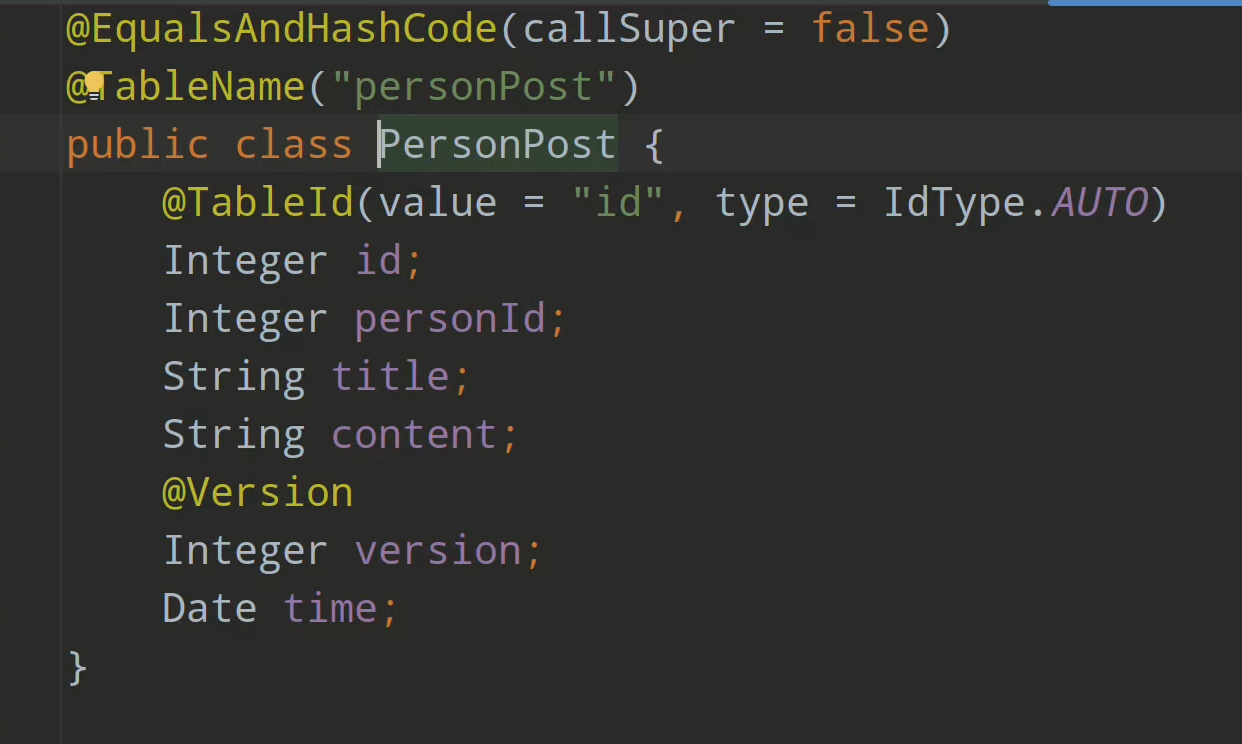
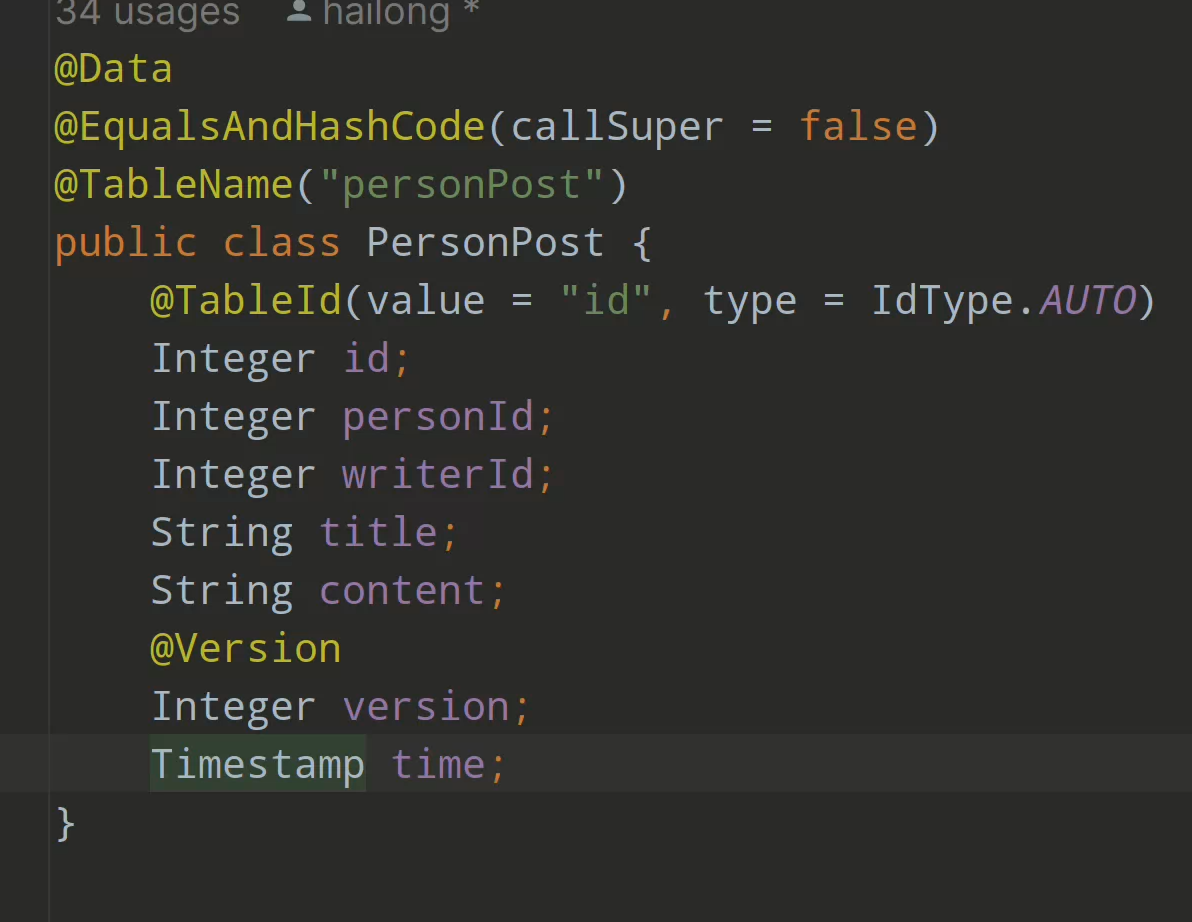
修改了一些bug

diff --git a/src/main/java/com/OOAD/controller/TeamPostController.java b/src/main/java/com/OOAD/controller/TeamPostController.java
@@ -1,5 +1,6 @@
 package com.OOAD.controller;
 
+import com.OOAD.domain.PersonPost;
 import com.OOAD.domain.TeamPost;
 import com.OOAD.service.TeamPostService;
 import com.OOAD.service.impl.TeamPostServiceImpl;
@@ -13,6 +14,21 @@ import java.util.List;
 public class TeamPostController {
     @Autowired
     TeamPostServiceImpl service;
+    @GetMapping("/writer/{id}")
+    public Result deleteByWriterID(@PathVariable int id) {
+        List<TeamPost> teamPost = service.getByWriterId(id);
+        Result result = new Result();
+        if (teamPost != null) {
+            result.setMsg("查询成功");
+            result.setData(teamPost);
+            result.setCode(Code.GET_OK);
+        } else {
+            result.setMsg("查询失败，帖子不存在");
+            result.setData("Err");
+            result.setCode(Code.GET_Err);
+        }
+        return result;
+    }
     @GetMapping("/title")
     public Result getByTitle(@RequestParam String title) {
         List<TeamPost> list = service.getByTitle(title);

diff --git a/src/main/java/com/OOAD/controller/PersonPostController.java b/src/main/java/com/OOAD/controller/PersonPostController.java
@@ -14,6 +14,21 @@ import java.util.List;
 public class PersonPostController {
     @Autowired
     PersonPostServiceImpl service;
+    @GetMapping("/writer/{id}")
+    public Result deleteByWriterID(@PathVariable int id) {
+        List<PersonPost> personPost = service.getByWriterId(id);
+        Result result = new Result();
+        if (personPost != null) {
+            result.setMsg("查询成功");
+            result.setData(personPost);
+            result.setCode(Code.GET_OK);
+        } else {
+            result.setMsg("查询失败，帖子不存在");
+            result.setData("Err");
+            result.setCode(Code.GET_Err);
+        }
+        return result;
+    }
     @GetMapping("/title")
     public Result getByTitle(@RequestParam String title) {
         List<PersonPost> list = service.getByTitle(title);

diff --git a/src/main/java/com/OOAD/domain/TeamPost.java b/src/main/java/com/OOAD/domain/TeamPost.java
@@ -7,6 +7,7 @@ import com.baomidou.mybatisplus.annotation.Version;
 import lombok.Data;
 import lombok.EqualsAndHashCode;
 
+import java.sql.Timestamp;
 import java.util.Date;
 
 @Data
@@ -15,10 +16,11 @@ import java.util.Date;
 public class TeamPost {
     @Version
     Integer version;
+    Integer writerId;
     @TableId(value = "id", type = IdType.AUTO)
     Integer id;
     String content;
     String title;
-    Date time;
+    Timestamp time;
     Integer teamId;
 }

diff --git a/src/main/java/com/OOAD/domain/PersonPost.java b/src/main/java/com/OOAD/domain/PersonPost.java
@@ -7,6 +7,7 @@ import com.baomidou.mybatisplus.annotation.Version;
 import lombok.Data;
 import lombok.EqualsAndHashCode;
 
+import java.sql.Timestamp;
 import java.util.Date;
 
 @Data
@@ -16,9 +17,10 @@ public class PersonPost {
     @TableId(value = "id", type = IdType.AUTO)
     Integer id;
     Integer personId;
+    Integer writerId;
     String title;
     String content;
     @Version
     Integer version;
-    Date time;
+    Timestamp time;
 }

diff --git a/src/main/java/com/OOAD/service/impl/PersonPostServiceImpl.java b/src/main/java/com/OOAD/service/impl/PersonPostServiceImpl.java
@@ -54,4 +54,11 @@ public class PersonPostServiceImpl implements PersonPostService {
         lqw.eq(PersonPost::getPersonId, personId);
         return dao.selectList(lqw);
     }
+
+    @Override
+    public List<PersonPost> getByWriterId(int id) {
+        LambdaQueryWrapper<PersonPost> lqw = new LambdaQueryWrapper<>();
+        lqw.eq(PersonPost::getWriterId, id);
+        return dao.selectList(lqw);
+    }
 }

diff --git a/src/main/java/com/OOAD/service/impl/TeamPostServiceImpl.java b/src/main/java/com/OOAD/service/impl/TeamPostServiceImpl.java
@@ -53,4 +53,11 @@ public class TeamPostServiceImpl implements TeamPostService {
         lqw.like(TeamPost::getTitle, title);
         return dao.selectList(lqw);
     }
+
+    @Override
+    public List<TeamPost> getByWriterId(int id) {
+        LambdaQueryWrapper<TeamPost> lqw = new LambdaQueryWrapper<>();
+        lqw.like(TeamPost::getWriterId, id);
+        return dao.selectList(lqw);
+    }
 }

diff --git a/src/main/java/com/OOAD/service/PersonPostService.java b/src/main/java/com/OOAD/service/PersonPostService.java
@@ -15,6 +15,6 @@ public interface PersonPostService {
     public List<PersonPost> getAll();
     public PersonPost getById(int id);
     public List<PersonPost> getByPersonId(int personId);
-
+    public List<PersonPost> getByWriterId(int id);
 
 }

diff --git a/src/main/java/com/OOAD/service/TeamPostService.java b/src/main/java/com/OOAD/service/TeamPostService.java
@@ -15,4 +15,6 @@ public interface TeamPostService {
     public TeamPost getById(int id);
     public List<TeamPost> getByTeamId(int teamId);
     public List<TeamPost> getByTitle(String title);
+    public List<TeamPost> getByWriterId(int id);
+
 }

diff --git a/api.md b/api.md
@@ -590,6 +590,10 @@ message：删除失败，请重试
 
 ## 对于Teampost
 
+根据作者id查询帖子列表
+
+/teamPost/writer/{id}
+
 最基础的/teamPost
 
 有post请求新增，需要提供一个完整的teampost（除了version字段和id字段）
@@ -609,6 +613,10 @@ Get方法表示获取teamid == id的所有帖子
 Get方法获取所有帖子
 
 ## 对于Personpost
+
+根据作者id查询帖子列表
+
+/teamPost/writer/{id}
 
 最基础的/personPost
 
